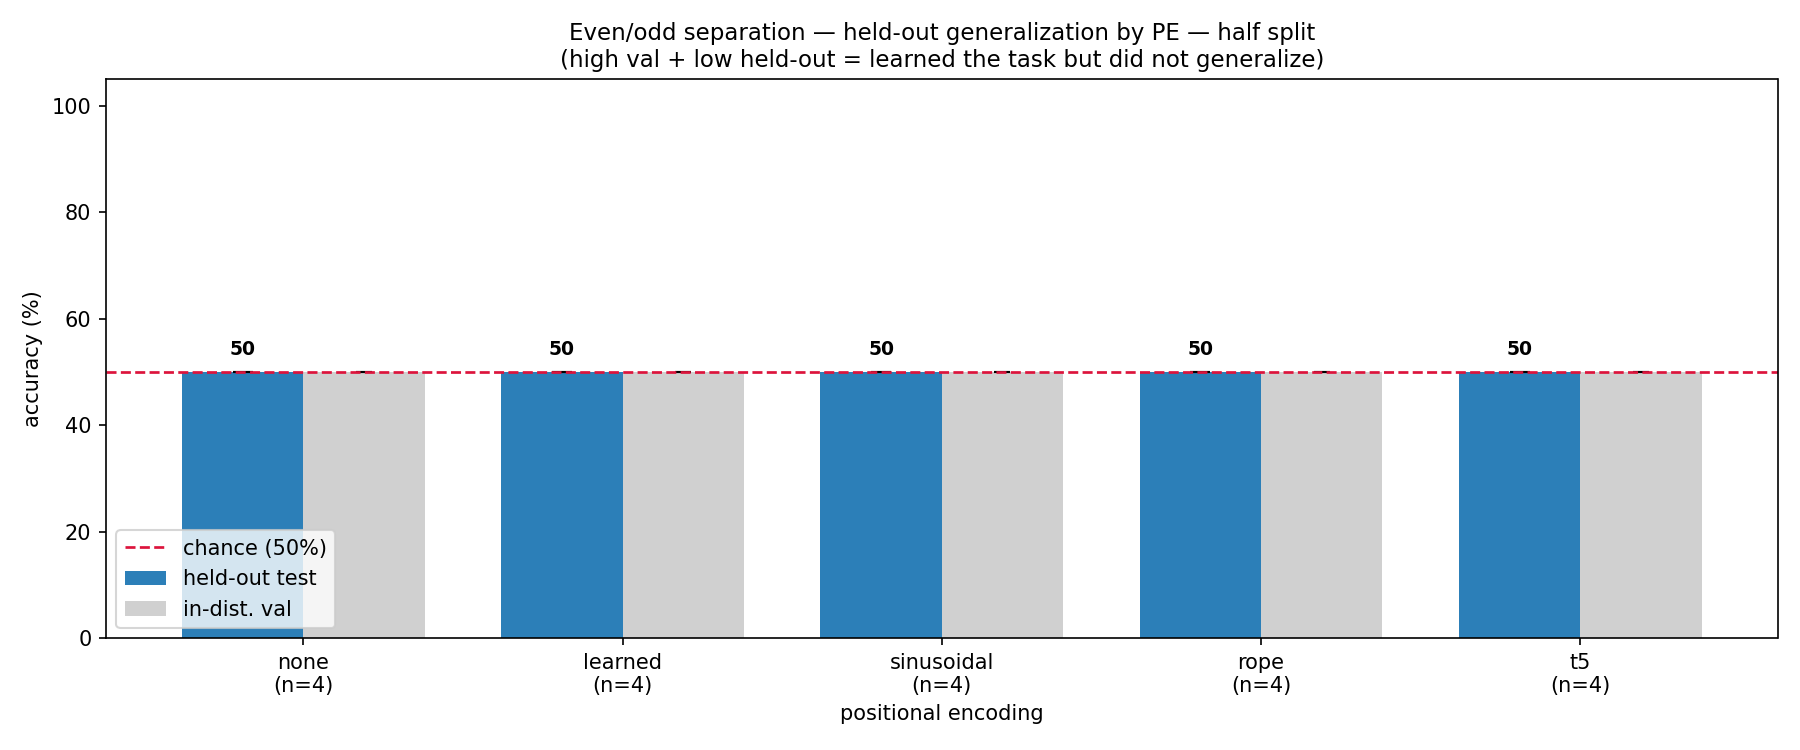
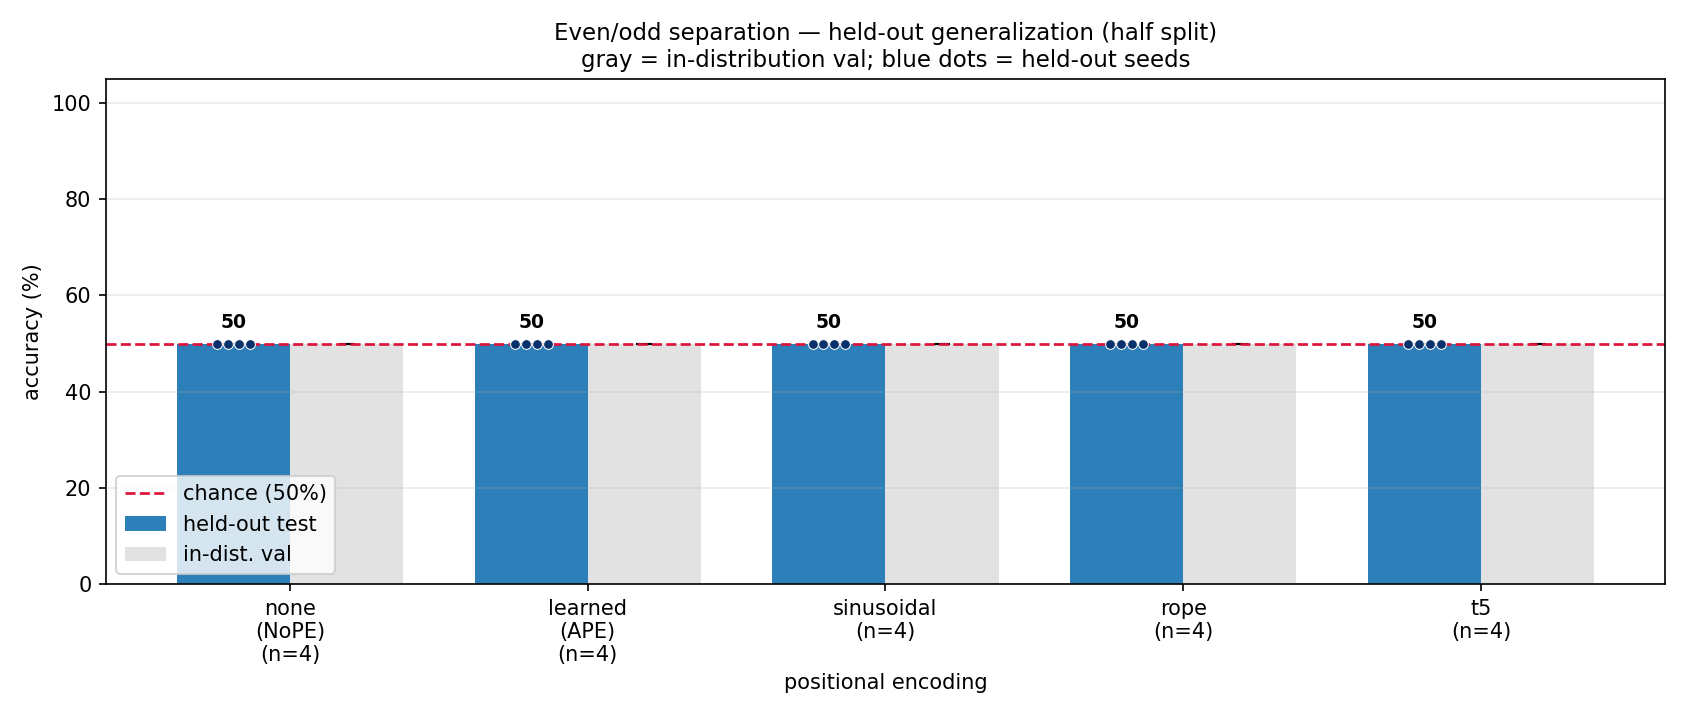
refactor: improve plot visualization, layout, and styling for even-odd separation diagnostics

diff --git a/generalization-evenodd/plot.py b/generalization-evenodd/plot.py
@@ -26,6 +26,7 @@ Usage (from generalization-evenodd/):
 import os
 import csv
 import argparse
+import math
 from collections import defaultdict
 
 import numpy as np
@@ -39,6 +40,8 @@ METHOD_ORDER = ['none', 'learned', 'sinusoidal', 'rope', 't5']
 # Stable color per method, so the separation-curve lines match across regenerations.
 METHOD_COLOR = {'none': '#7570b3', 'learned': '#d95f02', 'sinusoidal': '#e7298a',
                 'rope': '#1b9e77', 't5': '#66a61e'}
+METHOD_LABEL = {'none': 'none\n(NoPE)', 'learned': 'learned\n(APE)', 'sinusoidal': 'sinusoidal',
+                'rope': 'rope', 't5': 't5'}
 LENGTH = 20
 CHANCE = 50.0
 HALF = LENGTH // 2
@@ -107,25 +110,29 @@ def plot_bars(split, out_dir, methods_filter=None, suffix=''):
     val_mean = [mean_std(grouped[m]['val'])[0] if grouped[m]['val'] else np.nan for m in methods]
     val_std = [mean_std(grouped[m]['val'])[1] if grouped[m]['val'] else 0.0 for m in methods]
 
-    fig, ax = plt.subplots(figsize=(1.8 * len(methods) + 3, 5))
+    fig, ax = plt.subplots(figsize=(1.65 * len(methods) + 3, 4.8))
     ax.bar(x - w / 2, ho_mean, w, yerr=clip_err(ho_mean, ho_std), capsize=5,
            color='#2c7fb8', label='held-out test')
     ax.bar(x + w / 2, val_mean, w, yerr=clip_err(val_mean, val_std), capsize=4,
-           color='#bdbdbd', alpha=0.7, label='in-dist. val')
+           color='#d9d9d9', alpha=0.75, label='in-dist. val')
     ax.axhline(CHANCE, ls='--', color='crimson', lw=1.3, label='chance (50%)')
 
-    for i in range(len(methods)):
+    for i, m in enumerate(methods):
+        vals = grouped[m]['heldout']
+        jitter = np.linspace(-0.055, 0.055, len(vals)) if len(vals) > 1 else [0]
+        ax.scatter([x[i] - w / 2 + j for j in jitter], vals, s=22, color='#08306b',
+                   edgecolor='white', linewidth=0.5, zorder=3)
         ax.text(x[i] - w / 2, min(ho_mean[i] + ho_std[i] + 2.5, 103),
                 f"{ho_mean[i]:.0f}", ha='center', va='bottom', fontsize=9, fontweight='bold')
 
     ax.set_xticks(x)
-    ax.set_xticklabels([f"{m}\n(n={nseeds[m]})" for m in methods])
+    ax.set_xticklabels([f"{METHOD_LABEL.get(m, m)}\n(n={nseeds[m]})" for m in methods])
     ax.set_ylim(0, 105)
     ax.set_ylabel('accuracy (%)')
     ax.set_xlabel('positional encoding')
-    ax.set_title(f'Even/odd separation — held-out generalization by PE — {split} split\n'
-                 f'(high val + low held-out = learned the task but did not generalize)',
-                 fontsize=11)
+    ax.set_title(f'Even/odd separation — held-out generalization ({split} split)\n'
+                 f'gray = in-distribution val; blue dots = held-out seeds', fontsize=11)
+    ax.grid(axis='y', alpha=0.25)
     ax.legend(loc='lower left')
     fig.tight_layout()
     p1 = os.path.join(out_dir, f'heldout_accuracy_{split}{suffix}.png')
@@ -137,7 +144,7 @@ def plot_bars(split, out_dir, methods_filter=None, suffix=''):
     # If a model collapses to a single label, per-class accuracy exposes it (one class ->
     # ~100%, the other -> ~0%). The collapse direction can be seed-dependent, so overlay
     # each seed as a dot.
-    fig, ax = plt.subplots(figsize=(1.8 * len(methods) + 3, 5))
+    fig, ax = plt.subplots(figsize=(1.65 * len(methods) + 3, 4.8))
     t_vals = [grouped[m]['T'] for m in methods]
     f_vals = [grouped[m]['F'] for m in methods]
     t_mean = [mean_std(v)[0] for v in t_vals]
@@ -153,15 +160,15 @@ def plot_bars(split, out_dir, methods_filter=None, suffix=''):
                    label='per seed' if xi == x[0] else None)
         ax.scatter([xi + w / 2] * len(fv), fv, color='#7f2704', s=22, zorder=3)
     ax.axhline(CHANCE, ls='--', color='crimson', lw=1.3, label='chance (50%)')
-    ax.set_xticks(x); ax.set_xticklabels(methods)
+    ax.set_xticks(x); ax.set_xticklabels([METHOD_LABEL.get(m, m) for m in methods])
     ax.set_ylim(0, 105)
     ax.set_ylabel('held-out accuracy (%)')
-    ax.set_xlabel('positional encoding')
-    ax.set_title(f'Even/odd separation — per-class held-out accuracy — {split} split\n'
-                 f'(dots = seeds; a class at the 0/100 extremes = collapse to one label)',
-                 fontsize=11)
-    ax.legend(loc='upper center', bbox_to_anchor=(0.5, -0.12), ncol=4, fontsize=8)
-    fig.tight_layout()
+    ax.set_xlabel('')
+    ax.set_title(f'Even/odd separation — per-class held-out accuracy ({split} split)\n'
+                 f'dots = seeds; 0/100 split = collapse to one label', fontsize=11)
+    ax.grid(axis='y', alpha=0.25)
+    ax.legend(loc='upper center', bbox_to_anchor=(0.5, -0.16), ncol=4, fontsize=8)
+    fig.tight_layout(rect=[0, 0.08, 1, 1])
     p2 = os.path.join(out_dir, f'heldout_perclass_{split}{suffix}.png')
     fig.savefig(p2, dpi=150)
     plt.close(fig)
@@ -203,12 +210,15 @@ def plot_per_position(split, out_dir, methods_filter=None, suffix=''):
     if methods_filter:
         methods = [m for m in methods if m in methods_filter]
 
-    fig, axes = plt.subplots(1, len(methods), figsize=(4.8 * len(methods) + 1.6, 5.0),
+    ncols = min(3, len(methods))
+    nrows = math.ceil(len(methods) / ncols)
+    fig, axes = plt.subplots(nrows, ncols, figsize=(4.15 * ncols + 1.0, 4.05 * nrows),
                              squeeze=False, constrained_layout=True)
     cmap = plt.get_cmap('RdYlGn').copy()
     cmap.set_bad('lightgray')
     im = None
-    for ax, m in zip(axes[0], methods):
+    flat_axes = axes.ravel()
+    for ax, m in zip(flat_axes, methods):
         grid = np.full((LENGTH, LENGTH), np.nan)        # rows = X1 (smaller), cols = X2 (larger)
         for x1 in range(LENGTH):
             for x2 in range(LENGTH):
@@ -222,10 +232,13 @@ def plot_per_position(split, out_dir, methods_filter=None, suffix=''):
         ax.set_ylabel('X1 position (smaller)')
         ax.set_xticks(range(0, LENGTH, 2))
         ax.set_yticks(range(0, LENGTH, 2))
-    fig.suptitle(f'Even/odd separation — per-position accuracy over the diagnostic sweep — '
-                 f'{split} split\n(cell = accuracy with X at row & X at col; distance = '
-                 f'col - row; gray = X1>=X2, not sampled)', fontsize=12)
-    cbar = fig.colorbar(im, ax=axes[0].tolist(), fraction=0.046, pad=0.03)
+        ax.tick_params(labelsize=8)
+    for ax in flat_axes[len(methods):]:
+        ax.axis('off')
+    fig.suptitle(f'Even/odd separation — per-position diagnostic sweep ({split} split, pooled over seeds)\n'
+                 f'cell = accuracy for X at row/col; green = correct, red = wrong, gray = X1>=X2',
+                 fontsize=12)
+    cbar = fig.colorbar(im, ax=flat_axes[:len(methods)].tolist(), fraction=0.035, pad=0.02)
     cbar.set_label('accuracy')
     p = os.path.join(out_dir, f'per_position_{split}{suffix}.png')
     fig.savefig(p, dpi=150)
@@ -263,29 +276,29 @@ def plot_separation(split, out_dir, methods_filter=None, suffix=''):
     if methods_filter:
         methods = [m for m in methods if m in methods_filter]
 
-    fig, ax = plt.subplots(figsize=(8, 5))
+    fig, ax = plt.subplots(figsize=(8.8, 5.2))
+    all_d = sorted({int(r['distance']) for r in held})
+    for d in all_d:
+        if d % 2 == 0:
+            ax.axvspan(d - 0.5, d + 0.5, color='#e5f5e0', alpha=0.5, zorder=0)
+        else:
+            ax.axvspan(d - 0.5, d + 0.5, color='#fee0d2', alpha=0.42, zorder=0)
     for m in methods:
         dists = sorted(d for (mm, d) in acc_cnt if mm == m)
         ys = [100 * acc_sum[(m, d)] / acc_cnt[(m, d)] for d in dists]
-        ns = [acc_cnt[(m, d)] for d in dists]
-        ax.plot(dists, ys, marker='o', color=METHOD_COLOR.get(m), label=m)
-        # annotate the sample count per distance once, faintly, on the first method
-        if m == methods[0]:
-            for d, n in zip(dists, ns):
-                ax.annotate(f'n={n}', (d, -7), ha='center', va='center', fontsize=7,
-                            color='gray', annotation_clip=False)
+        ax.plot(dists, ys, marker='o', lw=2.0, ms=5.5, color=METHOD_COLOR.get(m), label=m)
 
     ax.axhline(CHANCE, ls='--', color='crimson', lw=1.3, label='chance (50%)')
-    all_d = sorted({int(r['distance']) for r in held})
     ax.set_xticks(all_d)
     ax.set_ylim(0, 105)
-    ax.set_xlabel('separation |X2 - X1|  (held-out region: both X in 10..19)')
+    ax.set_xlim(min(all_d) - 0.5, max(all_d) + 0.5)
+    ax.set_xlabel('separation |X2 - X1|  (held-out block: both X in 10..19)')
     ax.set_ylabel('mean accuracy (%)')
-    ax.set_title(f'Even/odd separation — accuracy vs separation — {split} split\n'
-                 f'(held-out block of the heatmap collapsed along the diagonal; '
-                 f'even distance -> T, odd -> F)', fontsize=11)
-    ax.legend(loc='lower left', ncol=2, fontsize=9)
-    ax.grid(True, alpha=0.3)
+    ax.set_title(f'Even/odd separation — accuracy by separation ({split} split)\n'
+                 f'pooled over seeds; green bands = even/T, peach bands = odd/F',
+                 fontsize=11)
+    ax.legend(loc='center left', bbox_to_anchor=(1.01, 0.5), fontsize=9)
+    ax.grid(axis='y', alpha=0.3)
     fig.tight_layout()
     p = os.path.join(out_dir, f'accuracy_vs_separation_{split}{suffix}.png')
     fig.savefig(p, dpi=150)

diff --git a/generalization-evenodd/log/2026-06-25-evenodd-pe-sweep.md b/generalization-evenodd/log/2026-06-25-evenodd-pe-sweep.md
@@ -145,7 +145,7 @@ guess randomly — it answers the *same* label for everything: some seeds say T 
 (T = 100%, F = 0%), others say F to every input. Averaged together this looks like 50%, but no
 single run is ever "half right."
 
-<img src="figures/per_position_half.png" alt="per-position accuracy heatmaps for all five PEs: every sampled cell uniformly around 50%" width="640">
+<img src="figures/per_position_half.png" alt="per-position accuracy heatmaps for all five PEs: every sampled cell uniformly around 50%" width="900">
 
 **How to read it.** One heatmap per PE. A cell is the accuracy when the first `X` sits at the
 row position and the second `X` at the column position; color runs red (0%) → yellow (50%) →
